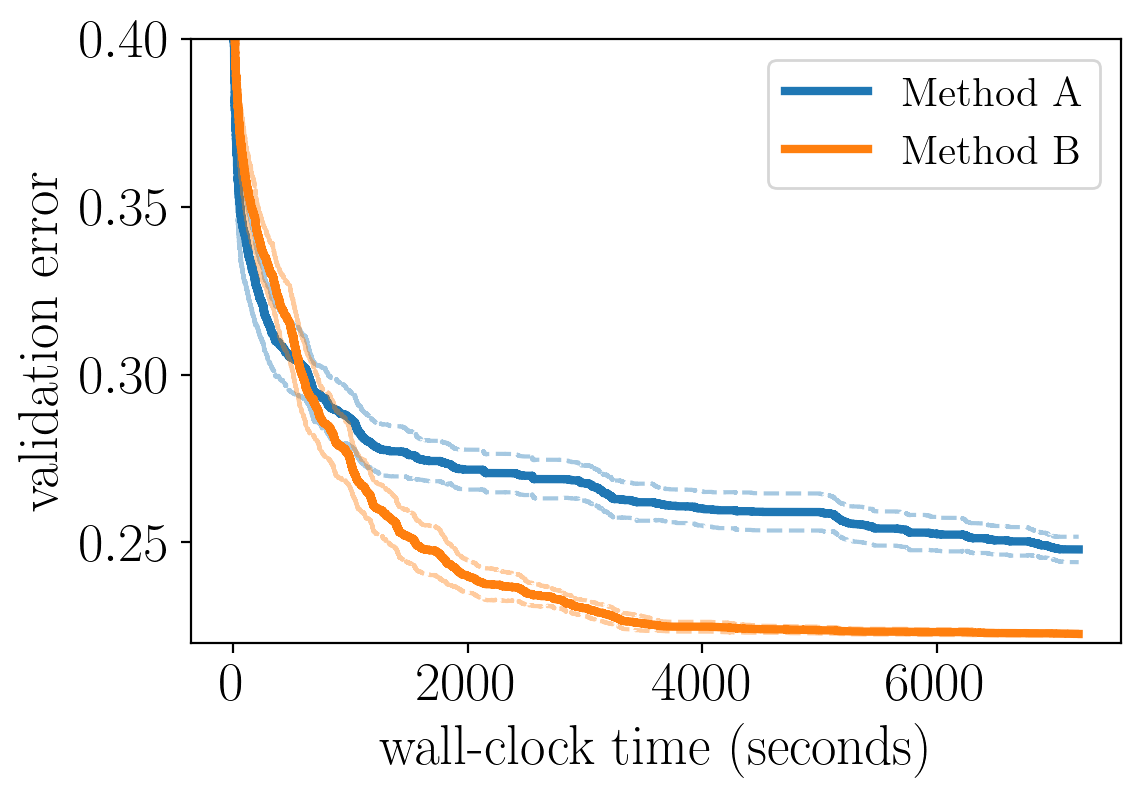
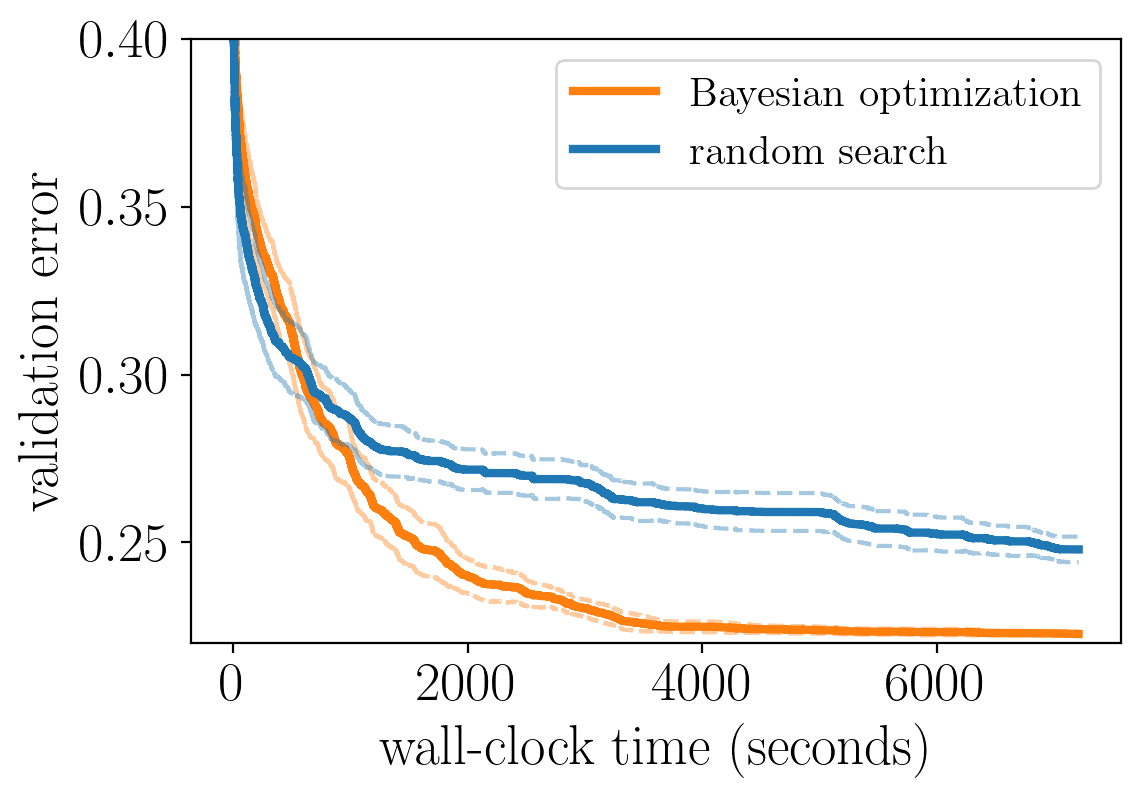
address comments

diff --git a/chapter_hyperparameter_optimization/hyperopt-api.md b/chapter_hyperparameter_optimization/hyperopt-api.md
@@ -138,7 +138,7 @@ make a decision (call of `self.scheduler.suggest`). In the sequel, we will plot
 (and `searcher`). This allows us to quantify not only how well the configuration
 found by an optimizer works, but also how quickly an optimizer is able to find it.
 
-```{.python .input  n=6}
+```{.python .input  n=1}
 %%tab all
 
 @d2l.add_to_class(HPOTuner) #@save
@@ -153,20 +153,32 @@ def bookkeeping(self, config, error, runtime):
     self.cumulative_runtime.append(self.current_time)
 ```
 
+```{.json .output n=1}
+[
+ {
+  "name": "stderr",
+  "output_type": "stream",
+  "text": "UsageError: Cell magic `%%tab` not found.\n"
+ }
+]
+```
+
 Just as with training algorithms or model architectures, it is important to understand how to best
 compare different HPO methods. Each run of an HPO experiment depends on mostly two sources of randomness,
 the random effects in each training run (such as random weight initialization or mini-batch ordering) and, as we are going to see in the next sections, the intrinsic randomness of the HPO method itself. Hence, when comparing different methods, it is crucial to run each experiment several times and present statistics, such as mean or median, across a population of multiple repetitions of an optimizer based on different seeds of the random number generator.
 
-To illustrate this, we below compare to methods A and B on some HPO problem. Each method was evaluated $N$ times with a different random seed. The solid line indicates the average performance of the incumbent across these $N$ repetitions and the dashed line the standard deviation. We can see that method A and B perform roughly the same up to ~1000 seconds, but method B quickly outperforms A afterwards.
+To illustrate this, we below compare random search :ref:'sec_rs' and Bayesian optimization :ref:'sec_bo' for optimizing the hyperparameters of a feed forward neural network. Each method was evaluated $50$ times with a different random seed. The solid line indicates the average performance of the incumbent across these $50$ repetitions and the dashed line the standard deviation. We can see that random search and Bayesian optimization perform roughly the same up to ~1000 seconds, but Bayesian optimization quickly outperforms random search afterwards.
 
 
 ![Example any-time performance plot to compare two methods A and B](img/example_anytime_performance.png)
 :width:`400px`
 :label:`example_anytime_performance`
 
-*MS: This is a bit abstract. Can we say what A, B are, and what N is?*
-
 
 ## Summary
 
 ## Exercise
+
+```{.python .input}
+
+```

diff --git a/chapter_hyperparameter_optimization/hyperopt-intro.md b/chapter_hyperparameter_optimization/hyperopt-intro.md
@@ -40,8 +40,6 @@ In this section we will introduce HPO and show how we can automatically find the
 
 To get started we will first look at a simple toy problem: Based on the logistic classification example from :ref:`sec_sgd`, we will search for the right learning rate that leads to an high validation accuracy on the Fashion MNIST dataset. Even though there are more hyperparameters we could optimize, for example the batch size or the number of epochs, we will focus only on the learning rate to keep the complexity of this example at bay.
 
-*MS: What is the reason you went from 2 to 1 parameters?*
-
 ```{.python .input  n=9}
 from d2l import torch as d2l
 
@@ -136,7 +134,7 @@ one of them will be close to the best hyperparameters $\mathbf{x}_*$.
 ## Grid Search
 
 Now, we look at the first method to solve our hyperparameter optimization problem: grid search. 
-The main idea of grid search is to define a discrete set of values for each hyperparameter and then to evaluate the cartesian product, i.e grid of all hyperparameters. 
+The main idea of grid search is to define a discrete set of values for each hyperparameter and then to evaluate the cartesian product, i.e grid of all hyperparameters.
 
 ```{.python .input  n=13}
 grid = [1e-4, 1e-3, 1e-2, 1e-1, 1e0, 1e1, 1e2, 1e3, 1e4]
